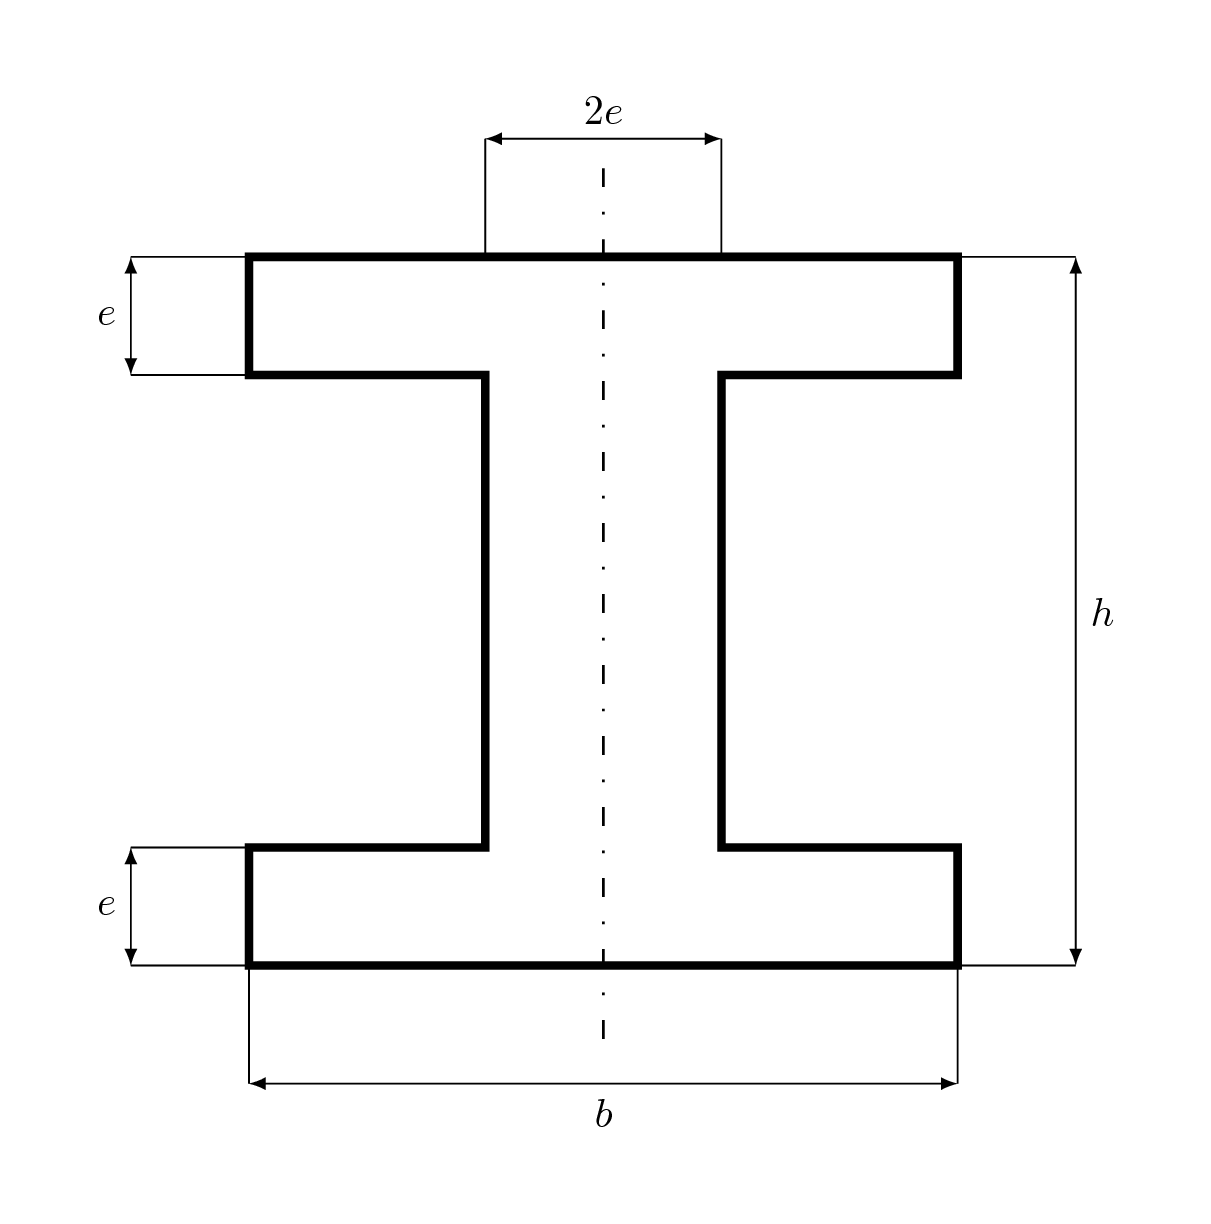
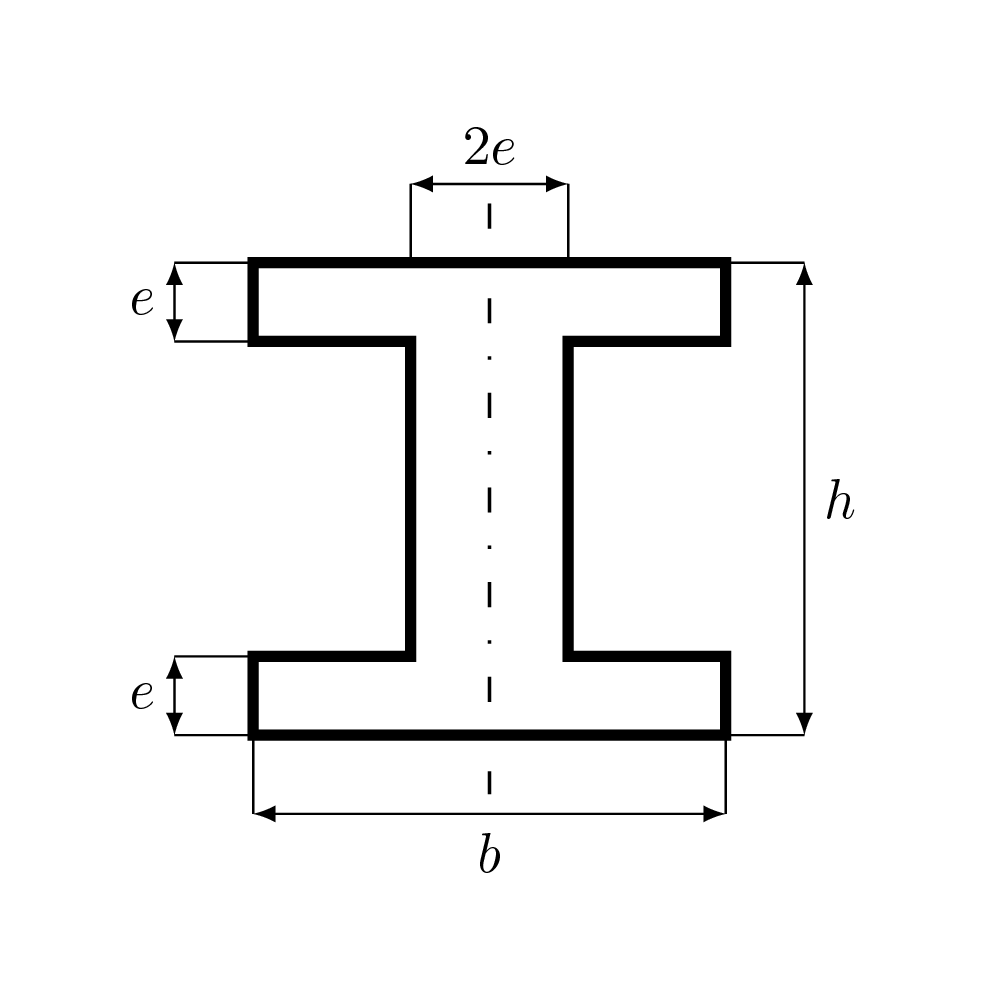
Change section scale

diff --git a/Treball/esquema/section.tex b/Treball/esquema/section.tex
@@ -7,7 +7,8 @@
 
 \begin{document}
 	\begin{tikzpicture}[
-		arrow/.style={latex-latex}
+		arrow/.style={latex-latex},
+		scale=0.5
 	]
 	\draw[line width=2pt] (-3, 3) -- (3, 3) -- (3, 2) -- (1, 2) -- (1, -2) -- (3, -2) -- (3, -3) -- (-3, -3) 
 		-- (-3, -2) -- (-1, -2) -- (-1, 2) -- (-3, 2) -- cycle;
